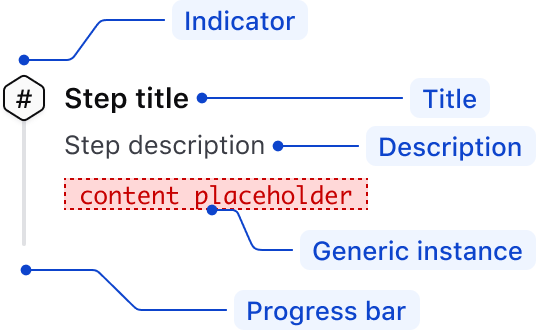
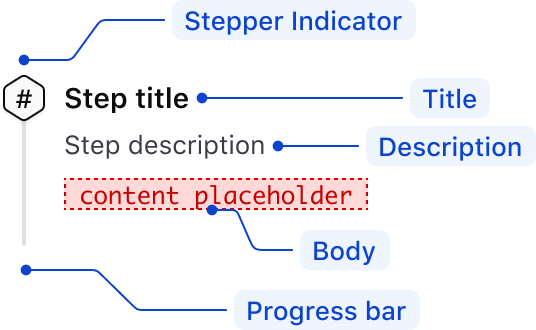
Updating text and images for Stepper List

Changed region(s): [[0.5672, 0.7273, 0.9851, 0.8182], [0.3284, 0.0303, 0.7463, 0.1212]]

diff --git a/website/docs/components/stepper/list/partials/guidelines/guidelines.md b/website/docs/components/stepper/list/partials/guidelines/guidelines.md
@@ -2,29 +2,30 @@
 
 ### When to use
 
-- In complex flows that are broken up into multiple steps to more easily segment content.
-- To communicate progress in a mult-step flow; what has been completed, and what has yet to be completed.
+- In onboarding, account creation or initial setups that are broken up into multiple steps to more easily segment content.
+- To communicate what has and has not been completed in a mult-step flow.
 - For progress that does not require a user to remain on a single page to complete.
 
 ### When not to use 
 
-- For page level, linear progress that requires a user to remain on the page for, use the [Stepper Nav](/components/stepper/nav).
-- Don't require specific progress tracking, use structured page content.
-
+- When the user needs to remain within the step to complete it, use the [Stepper Nav](/components/stepper/nav).
+- For simple forms or when progress doesn't need to be tracked, use structured page content.
 
 ## Content
 
-The Stepper has a title, an optional description and a generic slot for content.
+The Stepper List has a title, an optional description, and a generic slot for content.
 
 ### Title
 
-Titles are required and help users understand, from an overview perspective, what tasks need to be completed. Titles should be brief, and only a couple of words.
+Titles provide an overview to help users understand what tasks need to be completed and their purpose within the flow. Titles are required and should be brief.
 
 ### Description
 
-Descriptions are optional and should be brief and provide additional context to the title. We recommend that all steps either have a description or none do.
+Descriptions are optional. They should provide additional context but be brief. We recommend that all steps either have a description or do not.
 
 !!! Do
+
+Ensure description visibility is consistent.
 
 ![The stepper with descriptions enabled in every step.](/assets/components/stepper/list/stepper-list-description-do.png)
 
@@ -32,20 +33,24 @@ Descriptions are optional and should be brief and provide additional context to 
 
 !!! Dont
 
+Don't mix and match description visibility.
+
 ![Steps one and four with enabled descriptions, while two and three have only a title.](/assets/components/stepper/list/stepper-list-description-dont.png)
 
 !!!
 
 ## Progressive disclosure
 
-We recommend that the contents of the in-progress step be displayed at a time. This narrows the focus on the specific task at hand and ensures that they are completed in the specified order. However, this isn’t always possible and sometimes context from the previous step allows the user to complete the next step.
+We recommend showing only the contents of the **in-progress** step. This narrows the focus to the specific step and ensures steps are completed in order. However, this isn’t always possible, and sometimes context from the previous step allows the user to complete the next step. Use your best judgment.
 
 ![All steps only showing a title and description other than step 2. Step 2 shows a title, description and a button.](/assets/components/stepper/list/stepper-list-progressive-disclosure.png)
 
 ## Using processing status
 
-If a Step’s contents have submission capabilities, a processing status can help the user understand that their data is in the process of being submitted.
+If data can be submitted within a step, showing the status as `processing` provides the user with immediate feedback.
 
 ![A Stepper list with two steps. The first step the user is pressing a button, and the status of the first step is in a processing state.](/assets/components/stepper/list/stepper-list-processing-status.png)
 
-If an error occurs, that error should be displayed within the Step, and the status of the Step will revert back to “progress.”
+If an error occurs, that error should be displayed within the step. The steps status will revert to `progress`.
+
+![A Stepper list with two steps. The first step has an errored out form text input with a message explaining how to fix the error.](/assets/components/stepper/list/stepper-list-processing-status-errored.png)

diff --git a/website/docs/components/stepper/list/partials/specifications/anatomy.md b/website/docs/components/stepper/list/partials/specifications/anatomy.md
@@ -7,5 +7,5 @@
 | Stepper Indicator| Required                                        |
 | Title            | Required                                        |
 | Description      | Optional                                        |
-| Generic instance | Optional                                        |
+| Body             | Optional; accepts any custom component instance (local or from Helios)|
 | Progress bar     | Required                                        |
